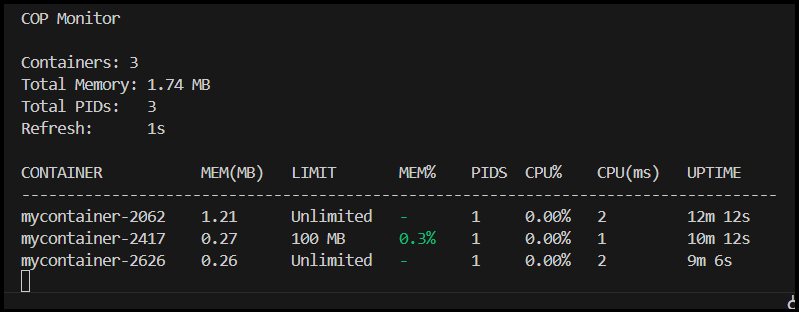
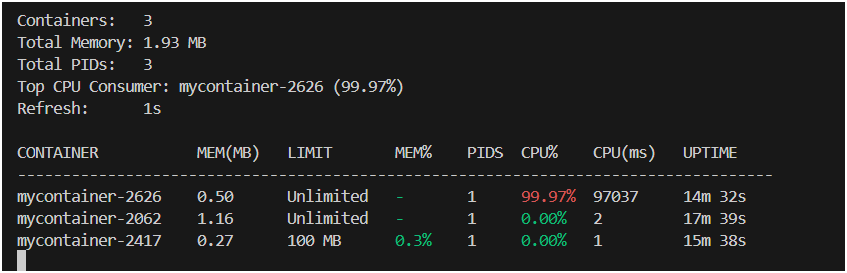
docs: update readme text output and copy latest screen capture

diff --git a/README.md b/README.md
@@ -91,16 +91,16 @@ Formats and displays collected metrics in a continuously refreshing terminal das
 COP Monitor
 
 Containers:   3
-Total Memory: 1.74 MB
+Total Memory: 1.93 MB
 Total PIDs:   3
-Top CPU Consumer: mycontainer-2626 (99.70%)
+Top CPU Consumer: mycontainer-2626 (99.97%)
 Refresh:      1s
 
 CONTAINER           MEM(MB)   LIMIT       MEM%    PIDS  CPU%    CPU(ms)   UPTIME    
 ------------------------------------------------------------------------------------
-mycontainer-2626    0.26      Unlimited   -       1     99.70%  6620      9m 6s     
-mycontainer-2062    1.21      Unlimited   -       1     0.00%   2         12m 12s   
-mycontainer-2417    0.27      100 MB      0.3%    1     0.00%   1         10m 12s   
+mycontainer-2626    0.50      Unlimited   -       1     99.97%  97037     14m 32s   
+mycontainer-2062    1.16      Unlimited   -       1     0.00%   2         17m 39s   
+mycontainer-2417    0.27      100 MB      0.3%    1     0.00%   1         15m 38s   
 ```
 
 ## Future Improvements
